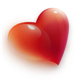
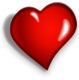
new image, some optimization

diff --git a/DashHeart.dcproj/project/widget.wdgt/main.js b/DashHeart.dcproj/project/widget.wdgt/main.js
@@ -1,110 +1,4 @@
-/* 
- This file was generated by Dashcode.  
- You may edit this file to customize your widget or web page 
- according to the license.txt file included in the project.
- */
-
-//
-// Function: load()
-// Called by HTML body element's onload event when the widget is ready to start
-//
 function load()
 {
     dashcode.setupParts();
-}
-
-//
-// Function: remove()
-// Called when the widget has been removed from the Dashboard
-//
-function remove()
-{
-    // Stop any timers to prevent CPU usage
-    // Remove any preferences as needed
-    // widget.setPreferenceForKey(null, dashcode.createInstancePreferenceKey("your-key"));
-}
-
-//
-// Function: hide()
-// Called when the widget has been hidden
-//
-function hide()
-{
-    // Stop any timers to prevent CPU usage
-}
-
-//
-// Function: show()
-// Called when the widget has been shown
-//
-function show()
-{
-    // Restart any timers that were stopped on hide
-}
-
-//
-// Function: sync()
-// Called when the widget has been synchronized with .Mac
-//
-function sync()
-{
-    // Retrieve any preference values that you need to be synchronized here
-    // Use this for an instance key's value:
-    // instancePreferenceValue = widget.preferenceForKey(null, dashcode.createInstancePreferenceKey("your-key"));
-    //
-    // Or this for global key's value:
-    // globalPreferenceValue = widget.preferenceForKey(null, "your-key");
-}
-
-//
-// Function: showBack(event)
-// Called when the info button is clicked to show the back of the widget
-//
-// event: onClick event from the info button
-//
-function showBack(event)
-{
-    var front = document.getElementById("front");
-    var back = document.getElementById("back");
-
-    if (window.widget) {
-        widget.prepareForTransition("ToBack");
-    }
-
-    front.style.display = "none";
-    back.style.display = "block";
-
-    if (window.widget) {
-        setTimeout('widget.performTransition();', 0);
-    }
-}
-
-//
-// Function: showFront(event)
-// Called when the done button is clicked from the back of the widget
-//
-// event: onClick event from the done button
-//
-function showFront(event)
-{
-    var front = document.getElementById("front");
-    var back = document.getElementById("back");
-
-    if (window.widget) {
-        widget.prepareForTransition("ToFront");
-    }
-
-    front.style.display="block";
-    back.style.display="none";
-
-    if (window.widget) {
-        setTimeout('widget.performTransition();', 0);
-    }
-}
-
-if (window.widget) {
-    widget.onremove = remove;
-    widget.onhide = hide;
-    widget.onshow = show;
-    widget.onsync = sync;
 }

diff --git a/DashHeart.dcproj/project/widget.wdgt/main.html b/DashHeart.dcproj/project/widget.wdgt/main.html
@@ -12,9 +12,7 @@
 </head>
 <body onload="load();" apple-part="com.apple.Dashcode.part.StackLayout">
     <div id="front">
-        <img id="frontImg" src="Parts/Images/front.png" alt="" apple-locked="true" apple-part="com.apple.Dashcode.part.frontimage" apple-style="image-theme: 2; image-shape: 3; image-opacity: 1.00; image-top-color: 1,1,1,1; image-bottom-color: 0.6154,0.6154,0.6154,1; image-radius: 12,12,12,12; image-border: 0; image-border-color: 0.5294,0.5294,0.5294,1; image-border-width: 1; shine-strength: 0.90; shine-alpha-level: 0.67; shine-height: 0.50; glass-arc-height: 0.06; image-include-custom: 1; image-custom-image-path: frontImg 1.png; image-custom-center: 1; image-custom-resize: 2; shadow-include-shadow: 1; shadow-offset: -1.00,-6.00; shadow-color: 0,0,0,0.3333;">
-    </div>
-    <div id="back">
+        <img id="frontImg" src="Parts/Images/front.png" alt="" apple-locked="true" apple-part="com.apple.Dashcode.part.frontimage" apple-style="image-theme: 2; image-shape: 3; image-opacity: 1.00; image-top-color: 1,1,1,1; image-bottom-color: 0.6154,0.6154,0.6154,1; image-radius: 12,12,12,12; image-border: 0; image-border-color: 0.5294,0.5294,0.5294,1; image-border-width: 1; shine-strength: 0.90; shine-alpha-level: 0.67; shine-height: 0.50; glass-arc-height: 0.06; image-include-custom: 1; image-custom-image-path: frontImg 2.png; image-custom-center: 1; image-custom-resize: 2; shadow-include-shadow: 1; shadow-offset: -1.00,-6.00; shadow-color: 0,0,0,0.3333;">
     </div>
 </body>
 </html>

diff --git a/DashHeart.dcproj/project/widget.wdgt/main.css b/DashHeart.dcproj/project/widget.wdgt/main.css
@@ -13,10 +13,7 @@ body {
     display: block;
     top: 0px;
     left: 0px;
-    width: 200px;
-    height: 200px;
+    width: 300px;
+    height: 282px;
 }
 
-#back {
-    display: none;
-}

diff --git a/DashHeart.dcproj/project/widget.wdgt/Parts/setup.js b/DashHeart.dcproj/project/widget.wdgt/Parts/setup.js
@@ -6,3 +6,4 @@
  */
 var dashcodePartSpecs = {};
 
+
